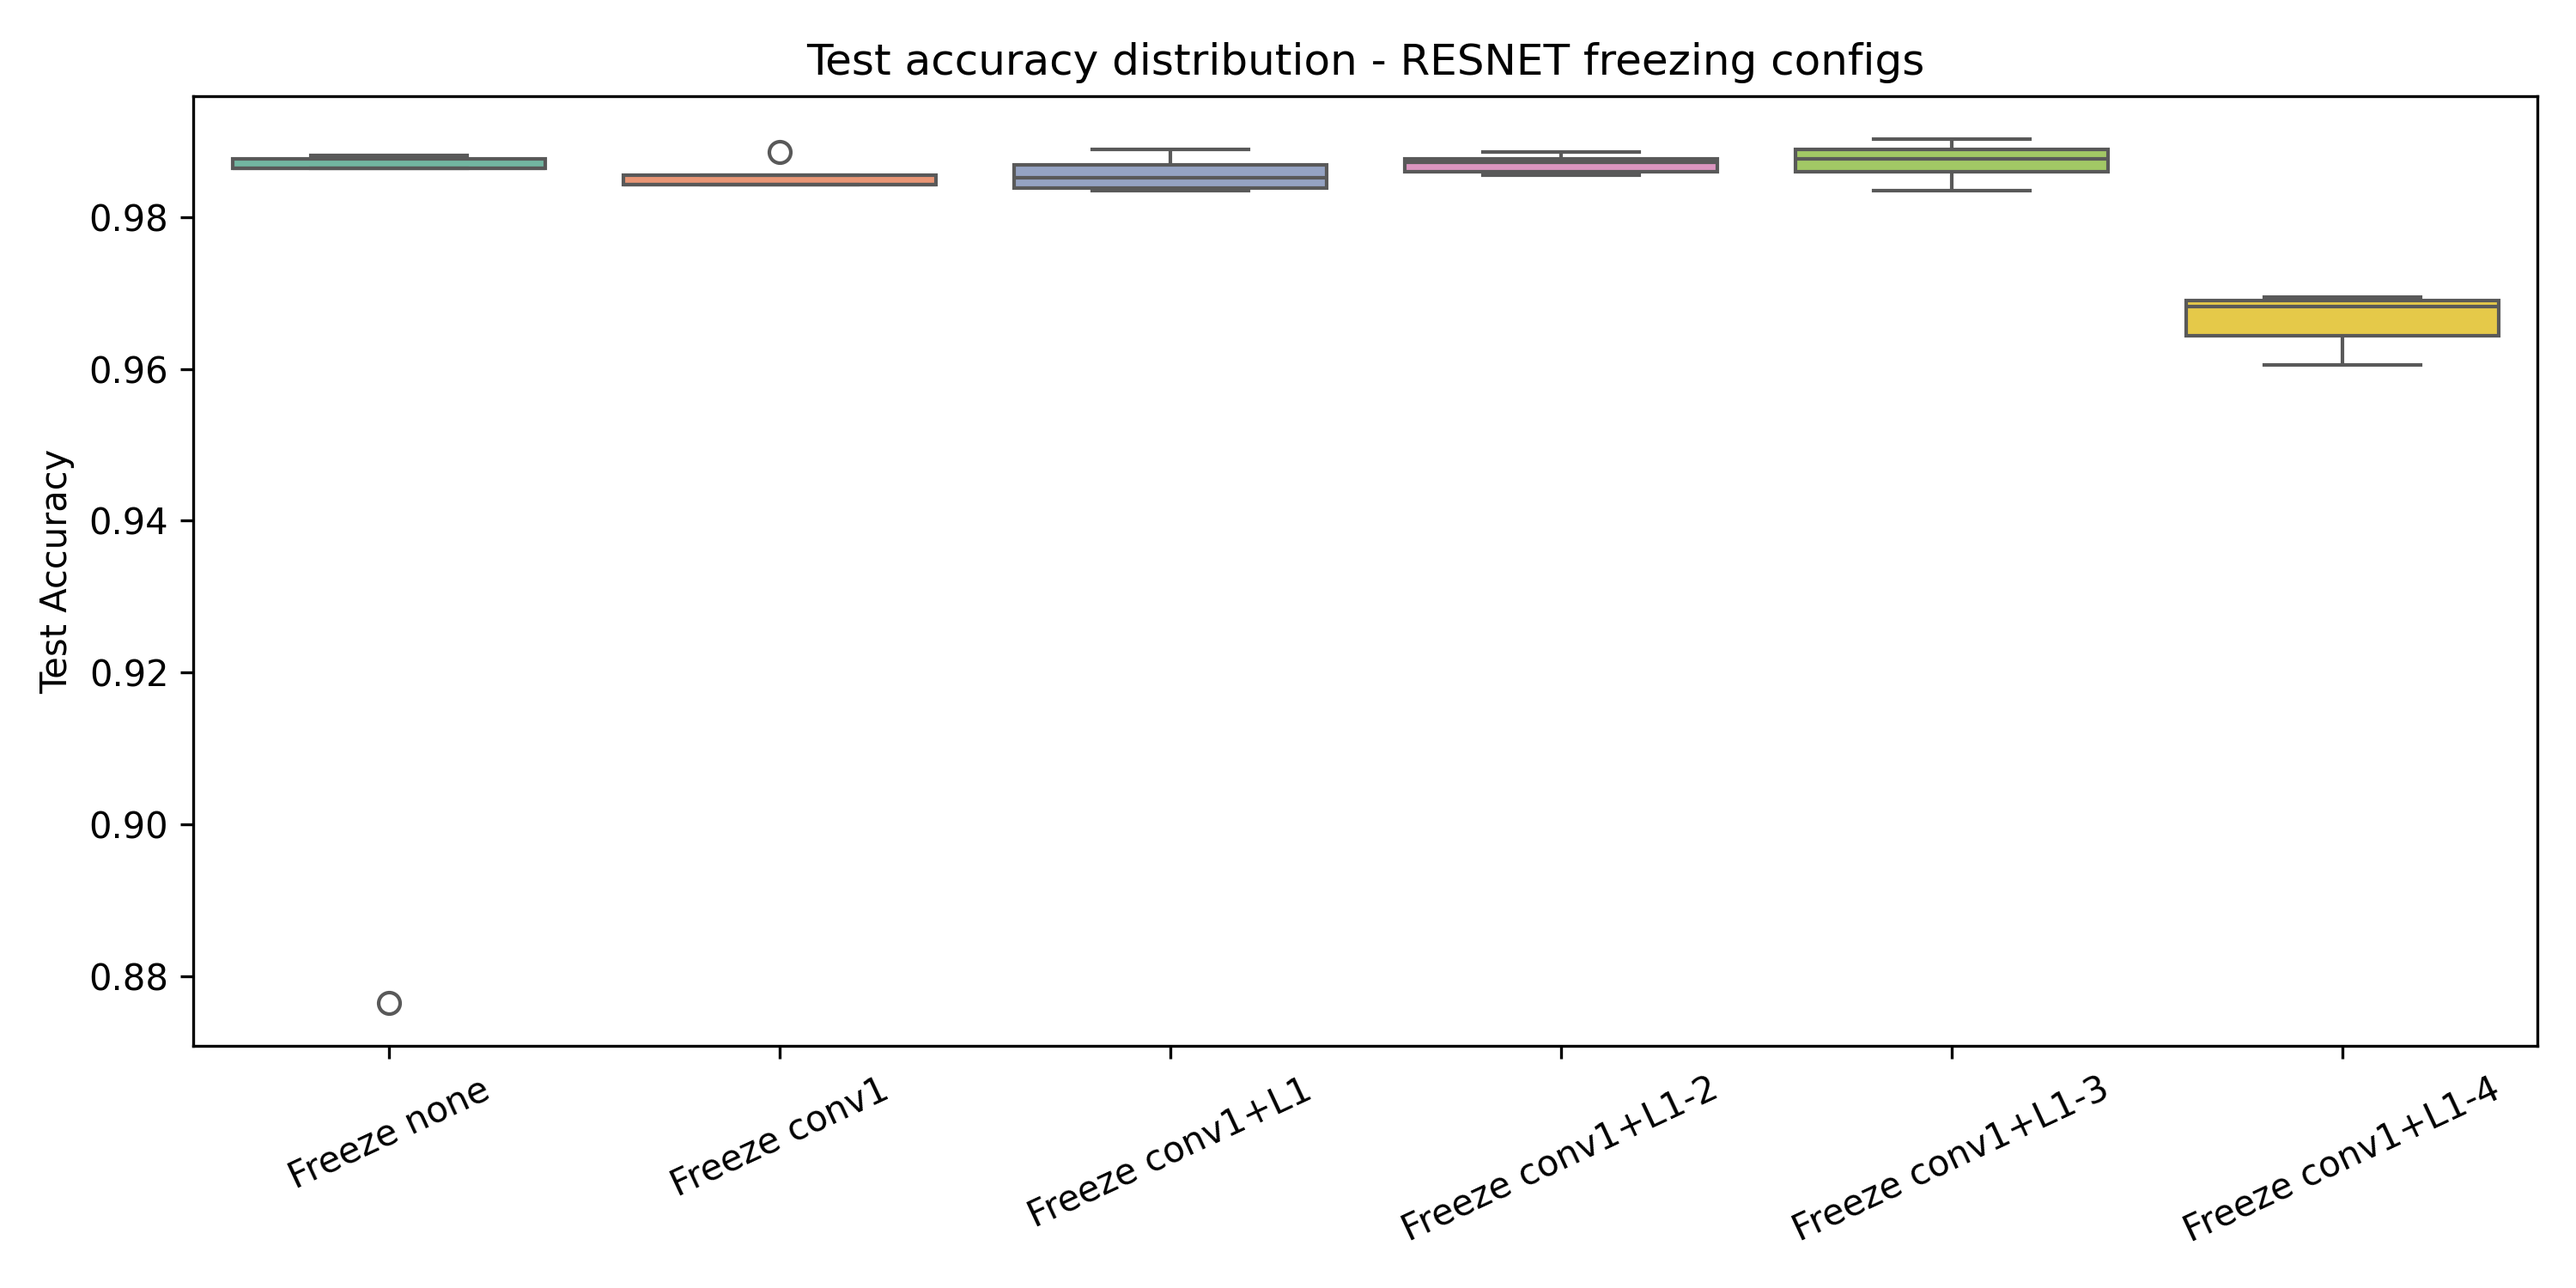
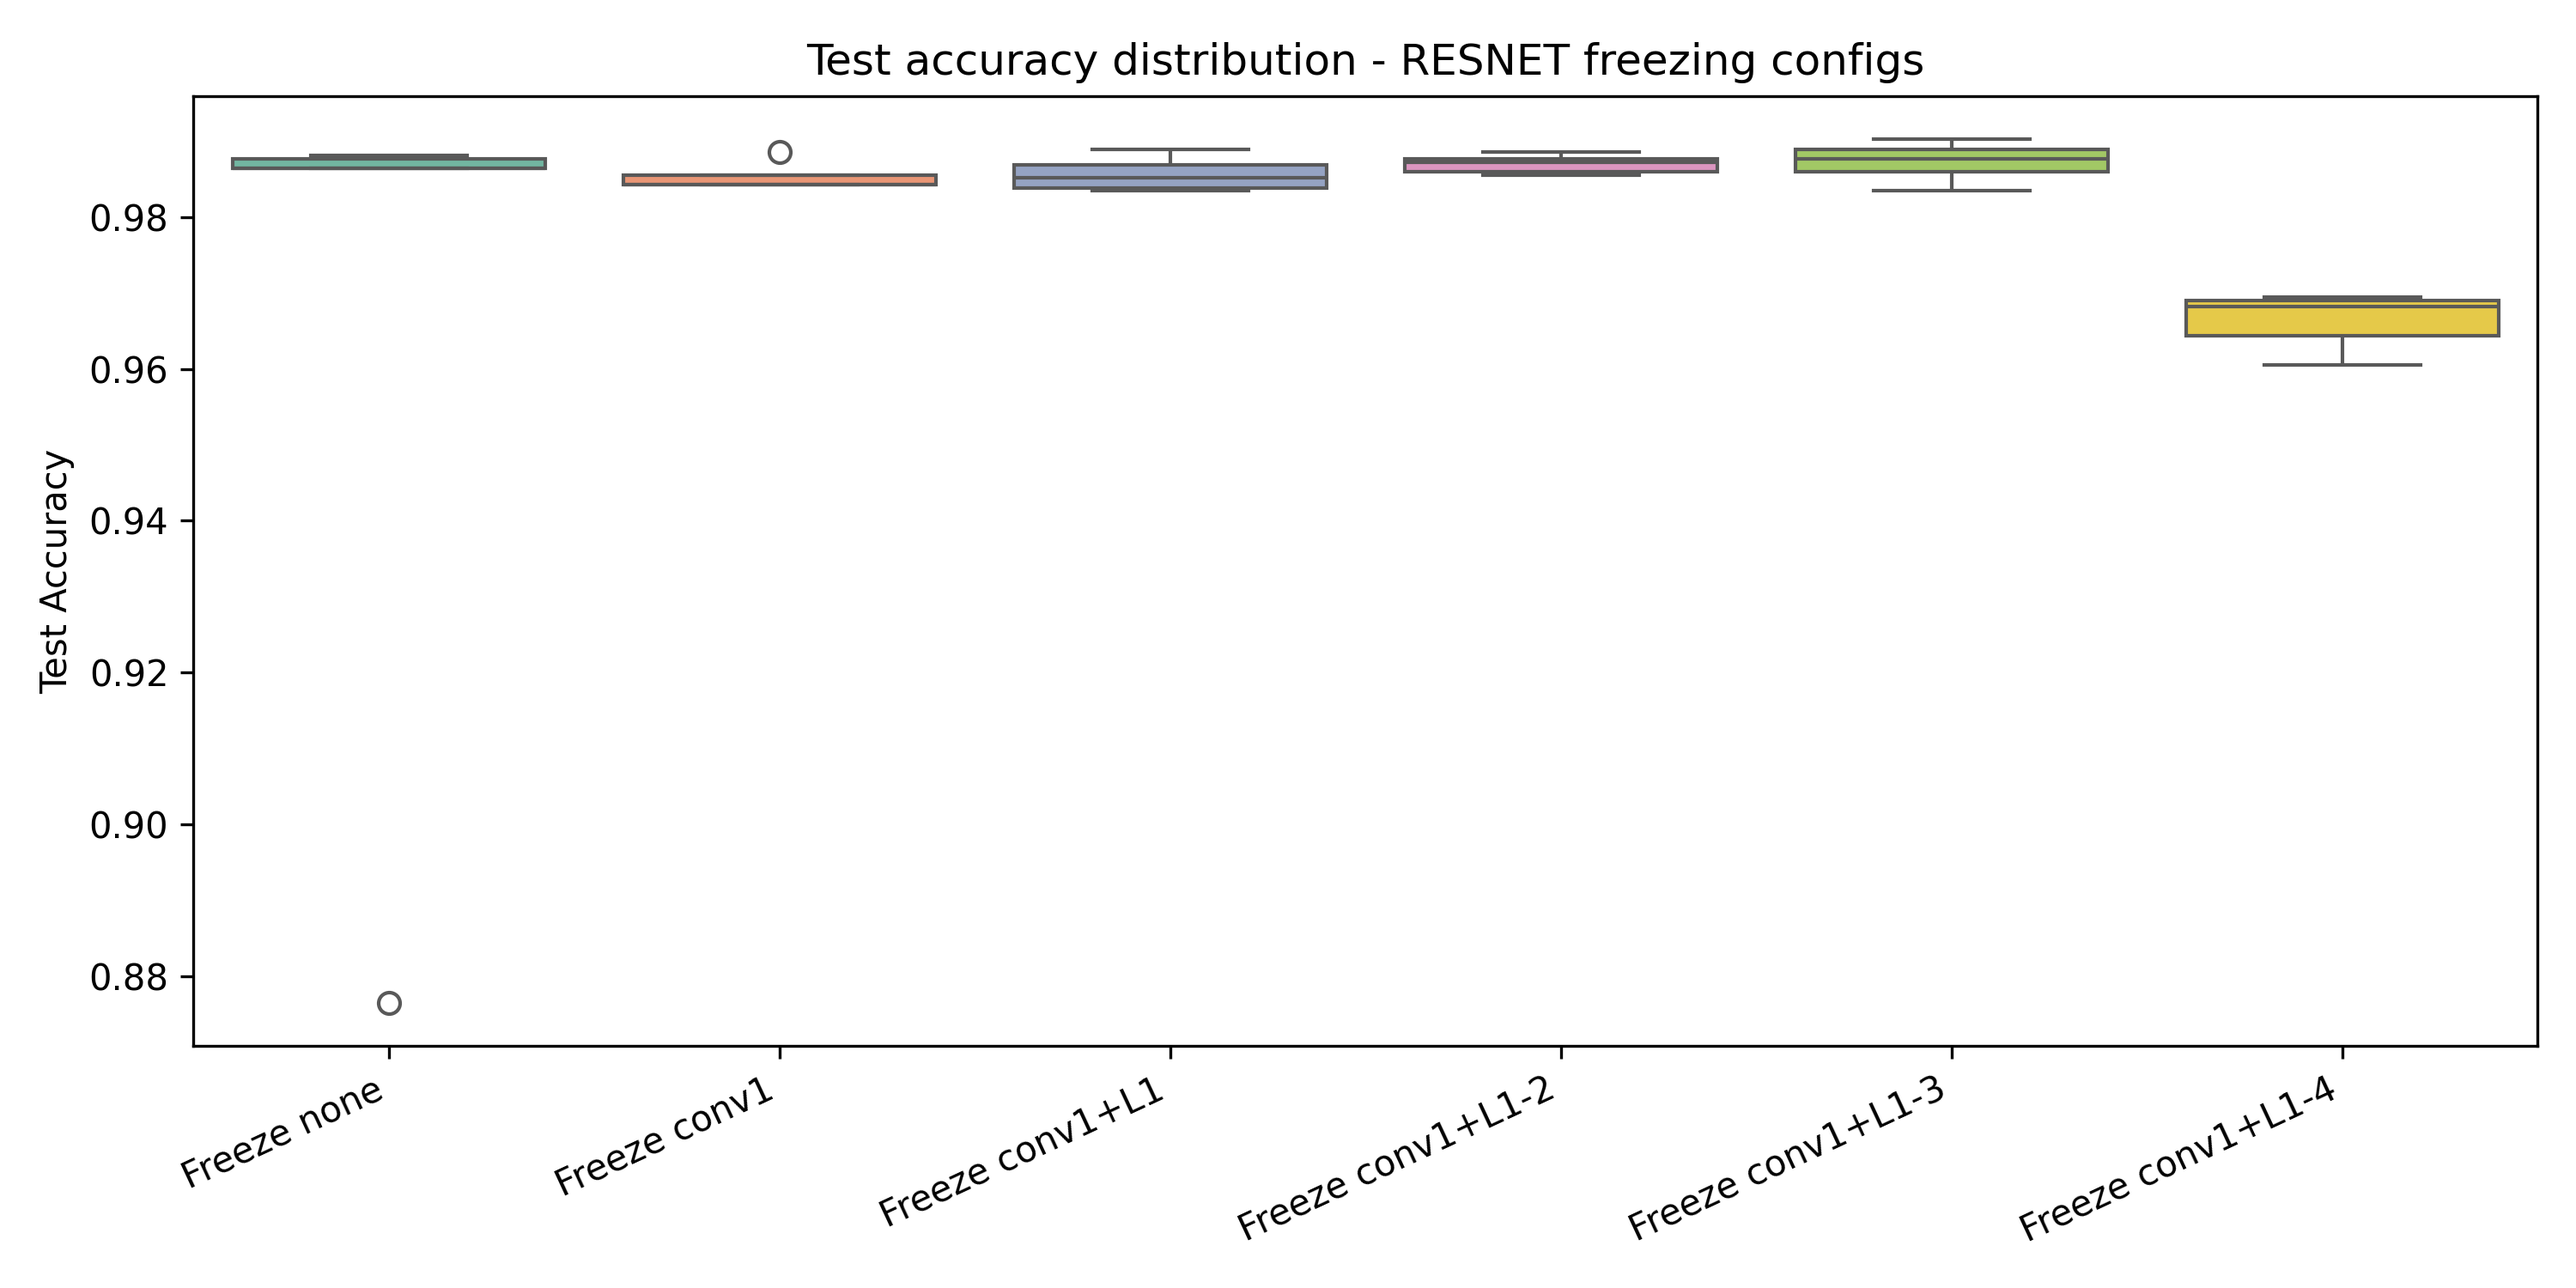
Improved readability of accuracy_boxplot, fix bug in gradcam

diff --git a/src/gradcam.py b/src/gradcam.py
@@ -71,7 +71,25 @@ def build_model(model_name: str, freeze_config: str, checkpoint_path: Path) -> n
     model.load_state_dict(state["model_state_dict"])
     model.to(DEVICE)
     model.eval()
+
+    enable_gradcam_grads(model, model_name)
+
     return model
+
+def enable_gradcam_grads(model: nn.Module, model_name: str) -> None:
+    """Re-enable requires_grad on target layers so Grad-CAM can backprop through them.
+    """
+    if model_name == "resnet":
+        for p in model.encoder.layer4.parameters():
+            p.requires_grad = True
+    elif model_name == "vit":
+        last_block = model.encoder.encoder.layers[-1]
+        for p in last_block.parameters():
+            p.requires_grad = True
+    elif model_name == "hybrid":
+        last_block = model.transformer.layers[-1]
+        for p in last_block.parameters():
+            p.requires_grad = True
 
 
 def get_target_layers(model: nn.Module, model_name: str) -> List[nn.Module]:

diff --git a/src/analyse_results.py b/src/analyse_results.py
@@ -208,12 +208,15 @@ def plot_boxplot(
 
     df = pd.DataFrame({"Accuracy": data, "Config": labels})
 
-    fig, ax = plt.subplots(figsize=(10, 5))
+    figsize = (20,5) if model == "hybrid" else (10,5)
+    fig, ax = plt.subplots(figsize=figsize)
     sns.boxplot(data=df, x="Config", y="Accuracy", ax=ax, palette="Set2")
     ax.set_title(f"Test accuracy distribution - {model.upper()} freezing configs")
     ax.set_xlabel("")
     ax.set_ylabel("Test Accuracy")
-    ax.tick_params(axis="x", rotation=25)
+    rotation = 45 if model == "hybrid" else 25
+    ax.tick_params(axis="x", rotation=rotation)
+    plt.setp(ax.get_xticklabels(), rotation=rotation, ha="right")
     fig.tight_layout()
 
     for fmt in ["png", "pdf"]:
